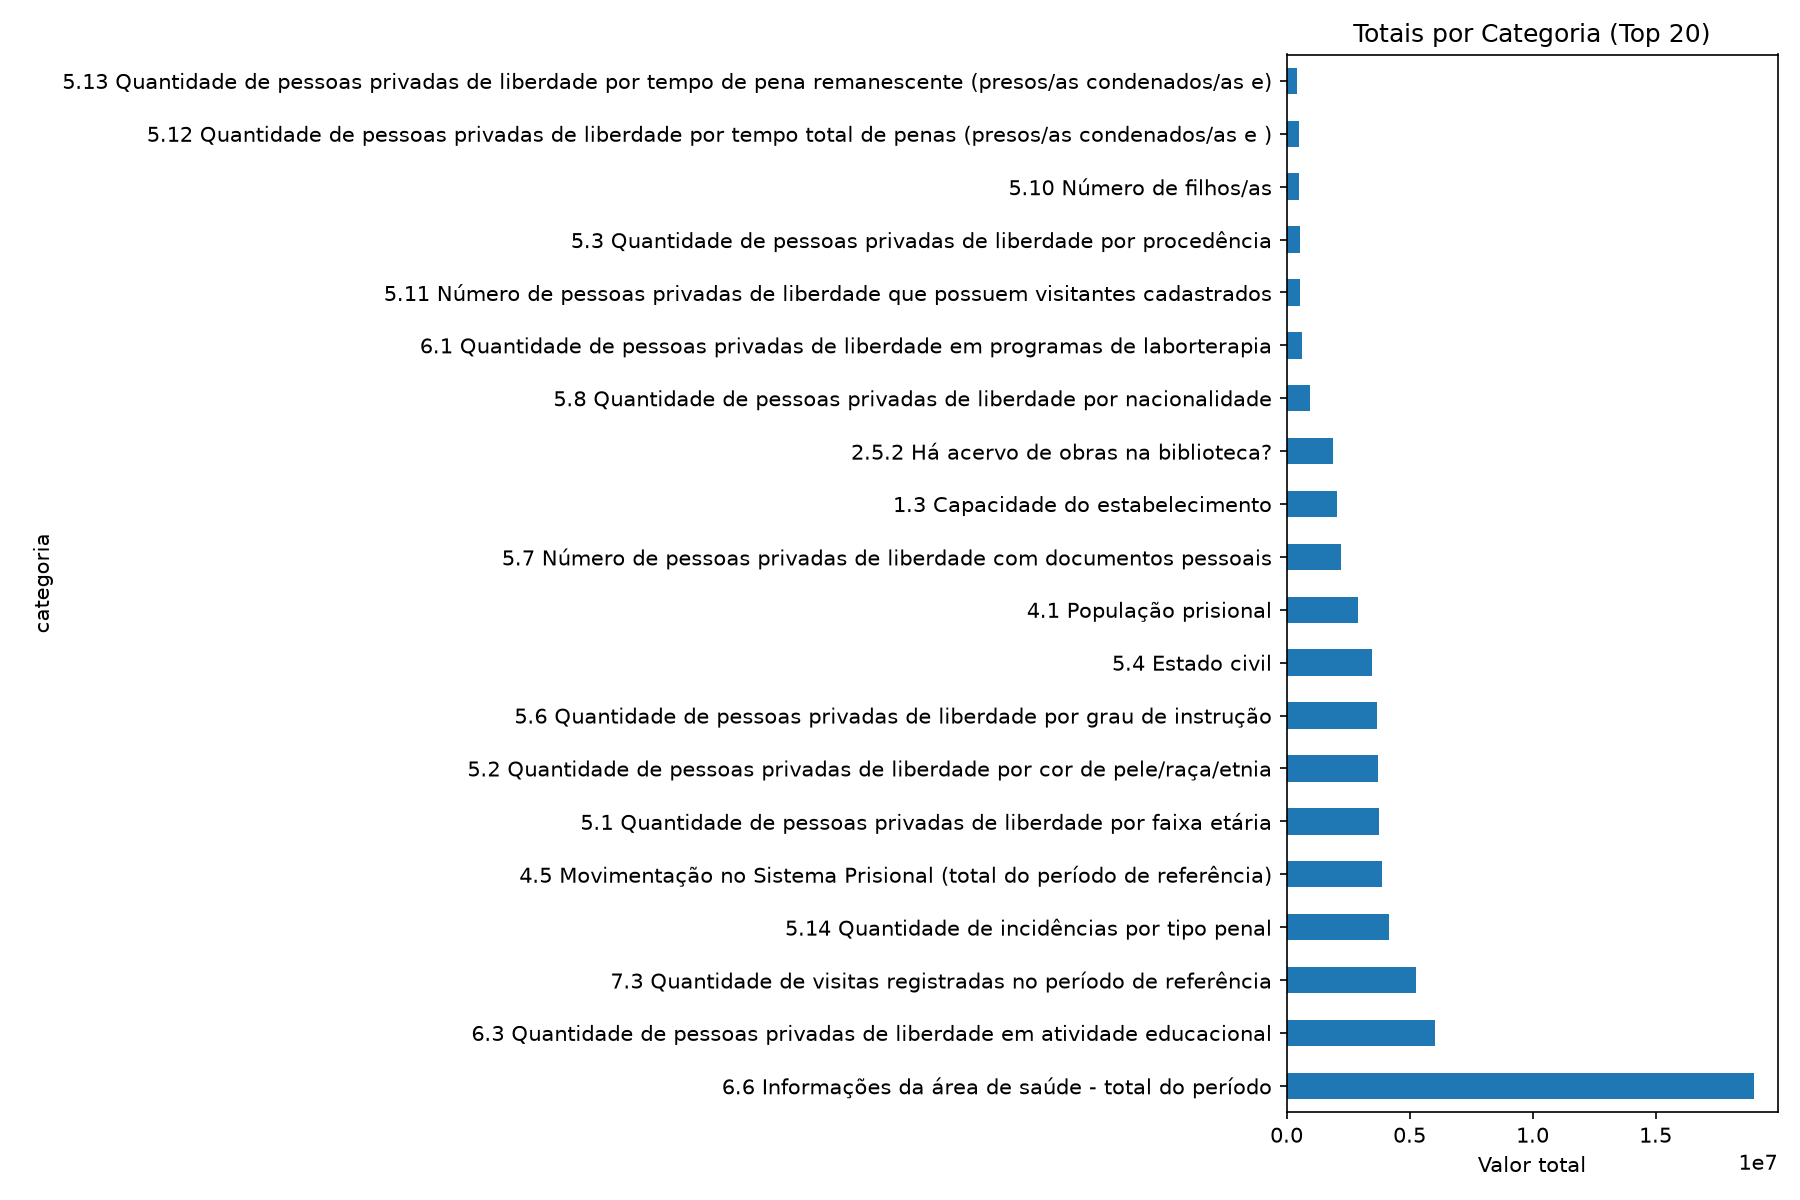
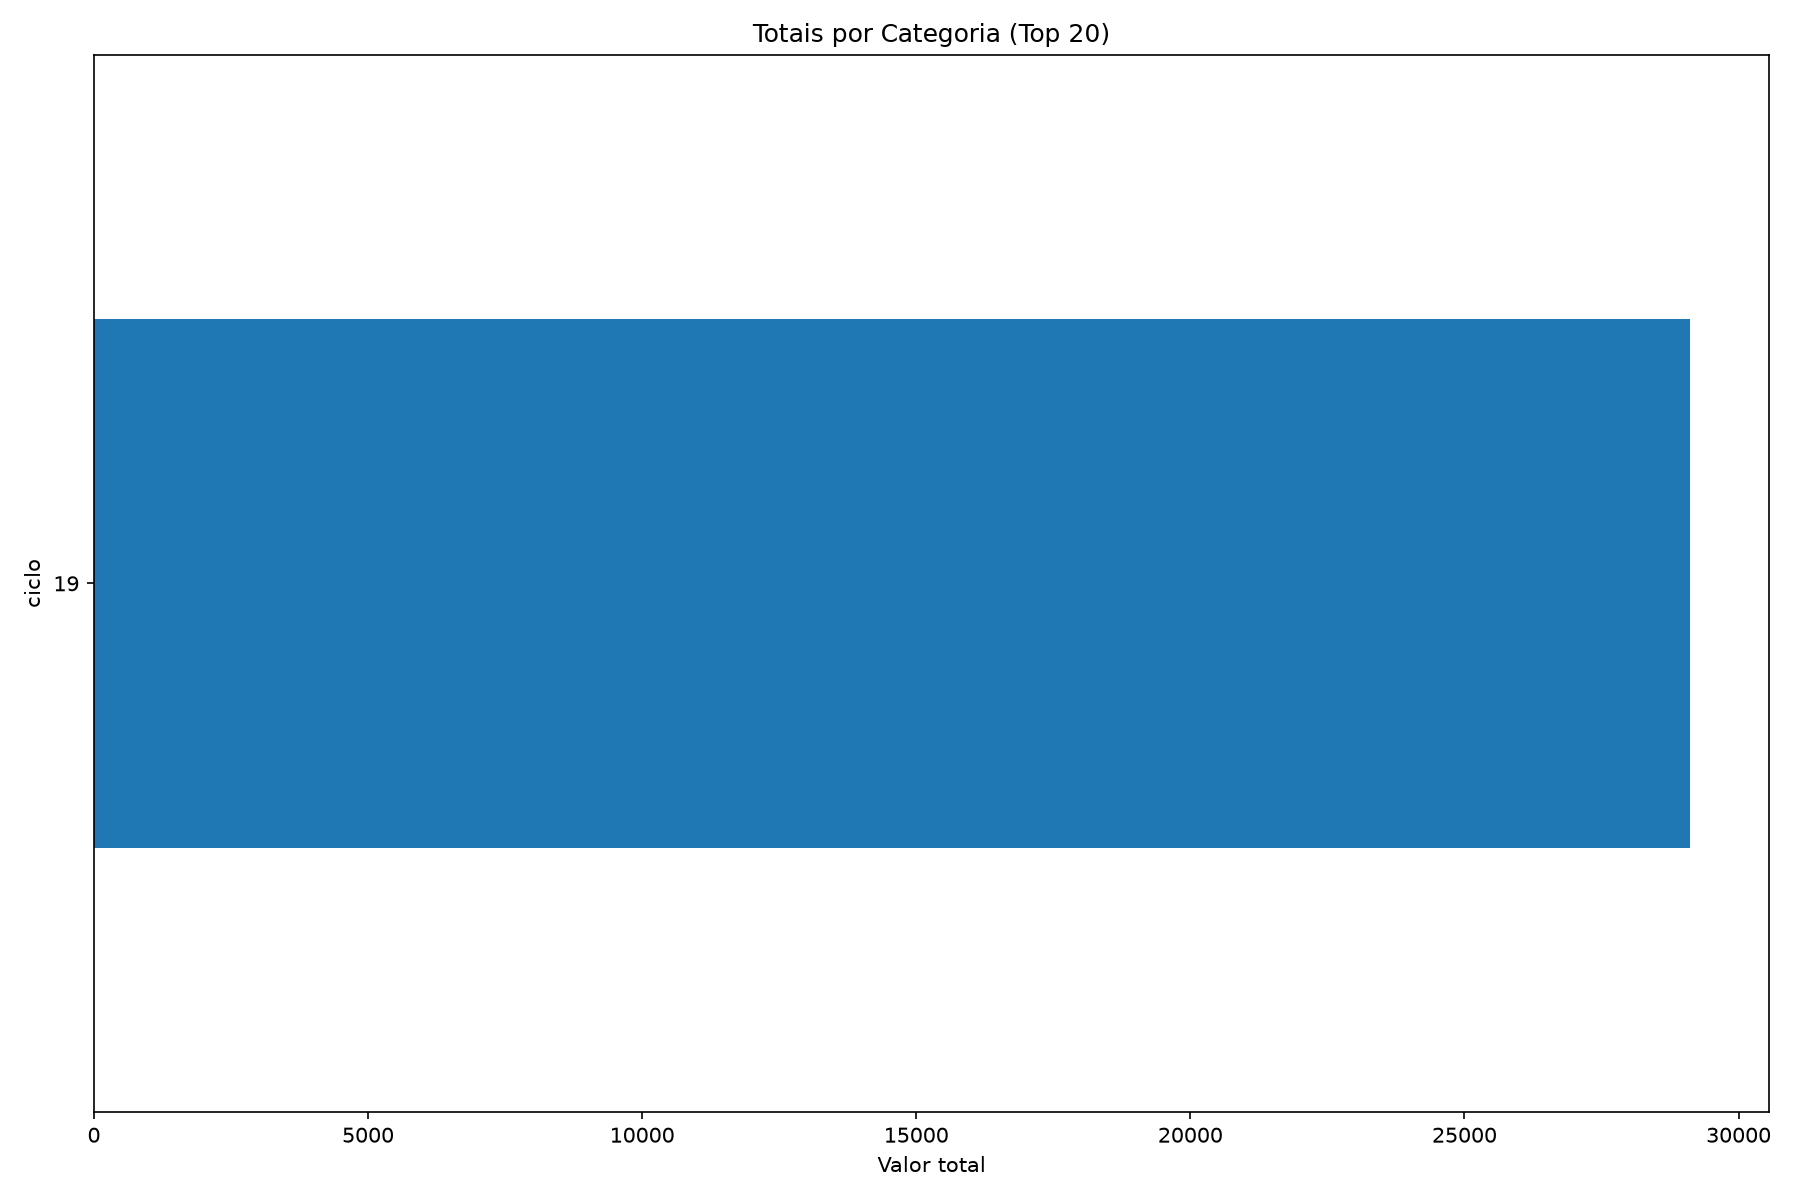
Implementa o Modulo 5 com correcoes: colunas e variante 0

diff --git a/Modulo 0/app.py b/Modulo 0/app.py
@@ -20,7 +20,8 @@ _PASTA_MODULO1 = os.path.join(_PASTA_RAIZ_PROJETO, "Modulo 1")
 _PASTA_MODULO2 = os.path.join(_PASTA_RAIZ_PROJETO, "Modulo 2")
 _PASTA_MODULO3 = os.path.join(_PASTA_RAIZ_PROJETO, "Modulo 3")
 _PASTA_MODULO4 = os.path.join(_PASTA_RAIZ_PROJETO, "Modulo 4")
-for _pasta in (_PASTA_RAIZ_PROJETO, _PASTA_MODULO1, _PASTA_MODULO2, _PASTA_MODULO3, _PASTA_MODULO4):
+_PASTA_MODULO5 = os.path.join(_PASTA_RAIZ_PROJETO, "Modulo 5")
+for _pasta in (_PASTA_RAIZ_PROJETO, _PASTA_MODULO1, _PASTA_MODULO2, _PASTA_MODULO3, _PASTA_MODULO4, _PASTA_MODULO5):
     if _pasta not in sys.path:
         sys.path.insert(0, _pasta)
 
@@ -28,10 +29,15 @@ import matplotlib.pyplot as plt
 import pandas as pd
 import streamlit as st
 
+import sys
+sys.path.append("../Modulo 5")  
+
+
 import montecarlo as mc
 from statslocal import media
 from modulo2_estatistica_interativa import modulo2_estatistica_interativa
 from modulo4_distribuicoes_teoricas import modulo4_distribuicoes_teoricas
+from regressao import render_modulo5
 
 NOME_ABA = "Sheet1"
 SEPARADOR = ";"
@@ -215,6 +221,8 @@ def main():
         modulo3_monte_carlo(df)
         st.divider()
         modulo4_distribuicoes_teoricas(df)
+        st.divider()
+        render_modulo5(df)
     else:
         st.warning(
             "Nenhum dataset carregado ainda. Verifique se o arquivo SISDEPEN está na mesma "
